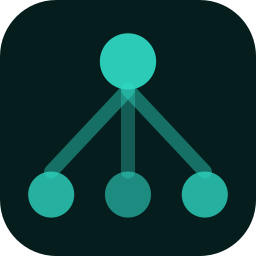
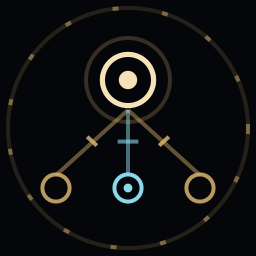
Rebuild raster marks and document the new features (#58)
* Fix invalid stroke-width in the lockup mark

The logo generator thickened lockup strokes with a naive string replace, so
stroke-width="1.3" became "1.3.3" and "1.2" became "1.3.2". Those are not
valid lengths, so browsers silently fell back to width 1 and the lockup has
been rendering thinner than intended since the mark landed — no error, no
warning, just quietly wrong.

Restores the intended thicker value for each original width.

* Rebuild the raster marks, and document what changed

The README logos and every icon-*/lockup-* PNG were still the old artwork —
only the SVG marks had been redrawn. Regenerated from the current lockup.svg
and favicon.svg with rsvg-convert, so the rasters match the app and keep their
transparency.

Documents features that had none:

* **Log Forwarding** — settings keys, admin endpoints, and why the format is
  RFC 5424 rather than 3164 (3164 timestamps carry no timezone, so the
  collector has to guess the offset, which has produced wrong timestamps in
  this suite before). Includes the failure that is otherwise very hard to
  diagnose: pktLog silently drops syslog from sources not enabled in its
  collector registry, and UDP gives the sender no indication either way.

* **Backup integrity** — snapshots go through SQLite's online-backup API and
  are verified before being counted as usable, because a torn WAL-mode copy
  looks exactly like a good backup until you need it.

---------

diff --git a/README.md b/README.md
@@ -34,6 +34,8 @@ SNMP ingest management and visualization platform — part of the pkt suite. Rec
 - [Development](#development)
 - [Contextual Help & IP Intelligence](#contextual-help--ip-intelligence)
 - [Suite Integration](#suite-integration)
+- [Log Forwarding](#log-forwarding)
+- [Data Retention](#data-retention)
 - [Related projects](#related-projects)
 
 ---
@@ -690,6 +692,20 @@ sudo systemctl start pktsnmp
 
 ---
 
+### Backup integrity
+
+Database snapshots are taken through SQLite's own online-backup API and then
+verified with `PRAGMA integrity_check`; a snapshot that does not pass is logged
+loudly and not counted as usable.
+
+This matters more than it sounds. The database runs in WAL mode, so at any
+instant the committed state is split between the `.db` file and its `-wal`
+sidecar. The previous implementation copied the `.db` alone with `shutil.copy2`,
+which captures neither a consistent snapshot nor the most recent commits — the
+worst possible failure mode for the one artifact you reach for in an emergency,
+because it looks like a backup either way.
+
+
 ## Troubleshooting
 
 | Symptom | Check |
@@ -848,6 +864,73 @@ To configure: in pktIPAM, go to **Settings → Integrations → Suite Integratio
 
 ---
 
+## Log Forwarding
+
+pktSNMP writes its own application log to the in-app **Logs** page. It can also
+ship that log to a syslog collector — normally **pktLog**, which listens on
+port `5514` — so this app's events sit alongside the rest of the estate.
+
+Settings keys (Settings → Data → Log Forwarding in apps that expose the UI;
+otherwise via `PUT /api/settings`):
+
+| Key | Default | Meaning |
+|---|---|---|
+| `log_forward_enabled` | `false` | Turn forwarding on |
+| `log_forward_host` | `""` | Collector hostname or IP |
+| `log_forward_port` | `5514` | pktLog's syslog port |
+| `log_forward_protocol` | `udp` | `udp` or `tcp` |
+| `log_forward_level` | `INFO` | Minimum level forwarded |
+| `log_forward_app_name` | `pktsnmp` | APP-NAME in the syslog message |
+
+Admin endpoints:
+
+- `GET  /api/system/log-forward/status` — delivery counters (sent, dropped, errors)
+- `POST /api/system/log-forward/test` — send one test line without saving settings
+- `POST /api/system/log-forward/reload` — apply settings changes without a restart
+
+**Format is RFC 5424, deliberately.** pktLog parses both 3164 and 5424, but
+3164 timestamps carry no timezone and the collector has to guess the offset —
+which has produced wrong timestamps in this suite before. 5424 carries a full
+offset, so there is nothing to guess.
+
+**Delivery is fire-and-forget** on a background thread, with counters. Log
+forwarding must never block or crash the thing it observes: a dropped line is a
+nuisance, a stalled collector loop is an outage. If the collector is
+unreachable, lines are dropped and counted rather than raised.
+
+### If forwarded logs never arrive
+
+**pktLog drops syslog from sources that are not registered.** Its
+`collector_registry` gates what is allowed to persist, so the sending host's IP
+must be present *and enabled* under pktLog's Settings → Collectors. Until then
+the messages are accepted on the wire and silently discarded — the sender sees
+a successful send either way, because UDP cannot tell it otherwise. pktLog also
+caches that registry for five minutes, so a newly enabled source is not live
+immediately.
+
+Use the **Send test message** button (or the `test` endpoint) to confirm the
+path end to end rather than assuming it works.
+
+## Data Retention
+
+`retention_days_raw` is enforced by a scheduler that runs once per day and
+calls the active storage backend's own cleanup, so the value set in Settings
+takes effect without any manual step.
+
+This is worth stating plainly because it was not always true: the cleanup
+function existed and the setting was exposed, but **nothing ever called it**.
+Poll results accumulated indefinitely — on one deployment reaching 129 million
+rows and 28 GB before it was noticed. If you are upgrading from a build older
+than this, expect the first prune to remove a great deal.
+
+The SQLite backend deletes in 50,000-row batches, yielding between them. A
+single unbounded `DELETE` over a table that size would hold a write lock for
+minutes, grow the WAL by everything it touched, and block ingest throughout.
+
+Every run is logged including no-op runs, so "ran and deleted nothing" stays
+distinguishable from "never ran" — that distinction is exactly what hid the
+original bug.
+
 ## Related projects
 
 | Project | Port | Description |
@@ -860,3 +943,4 @@ To configure: in pktIPAM, go to **Settings → Integrations → Suite Integratio
 | pktWiFi | 8769 | Wireless controller/AP monitoring |
 
 Logos for all pkt apps are served from the pktHub `/logos/` endpoint.
+
